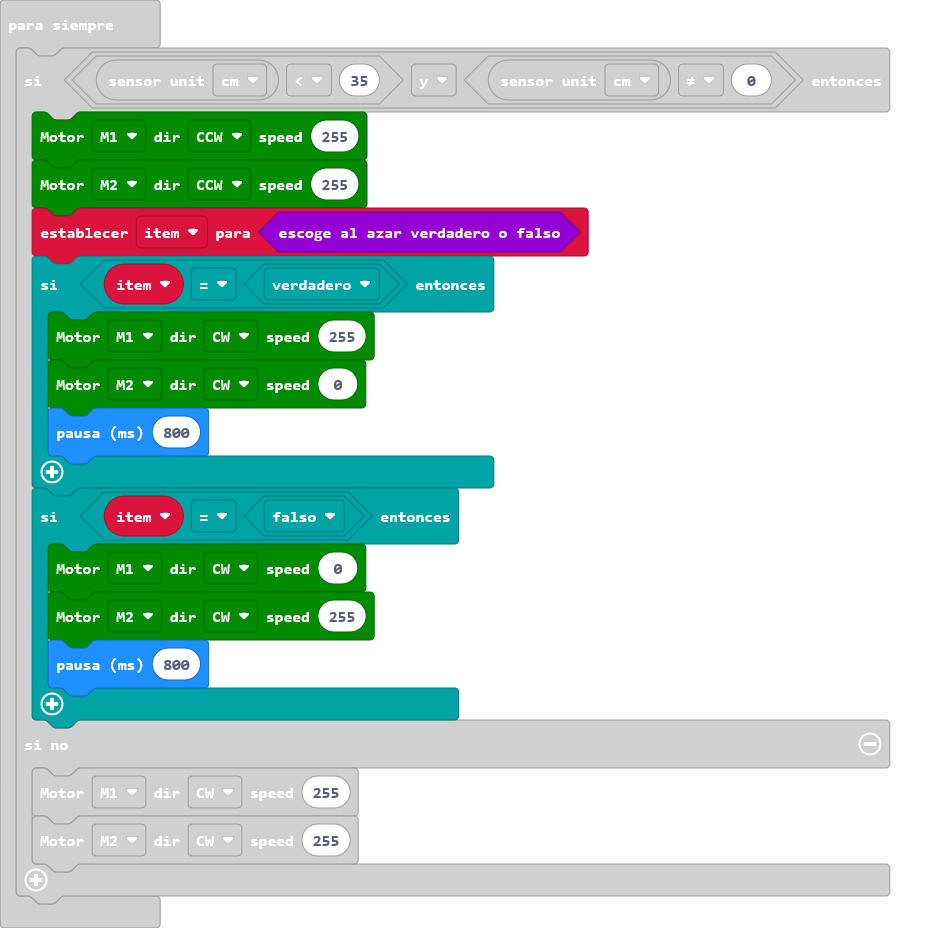
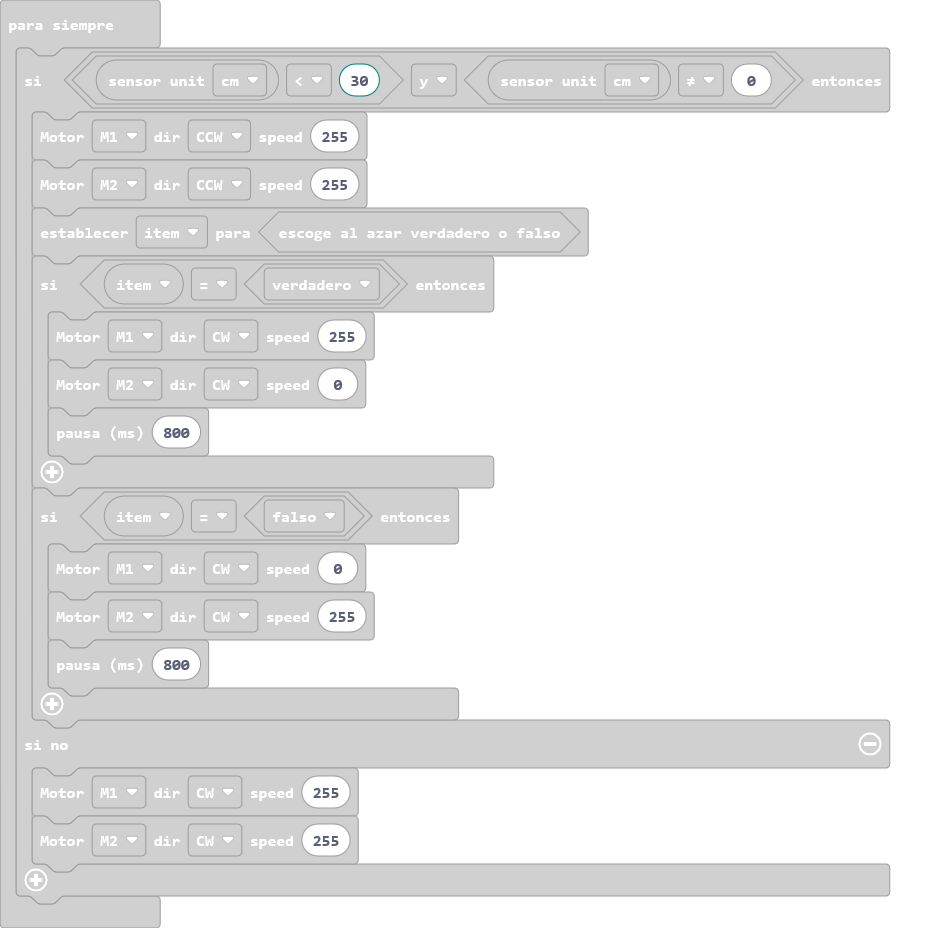
Update main.blocks, main.ts

Changed region(s): [[0.0308, 0.0625, 0.6472, 0.7812]]

diff --git a/main.ts b/main.ts
@@ -1,6 +1,6 @@
 let item = false
 basic.forever(function () {
-    if (maqueen.sensor(PingUnit.Centimeters) < 35 && maqueen.sensor(PingUnit.Centimeters) != 0) {
+    if (maqueen.sensor(PingUnit.Centimeters) < 30 && maqueen.sensor(PingUnit.Centimeters) != 0) {
         maqueen.MotorRun(maqueen.aMotors.M1, maqueen.Dir.CCW, 255)
         maqueen.MotorRun(maqueen.aMotors.M2, maqueen.Dir.CCW, 255)
         item = Math.randomBoolean()
